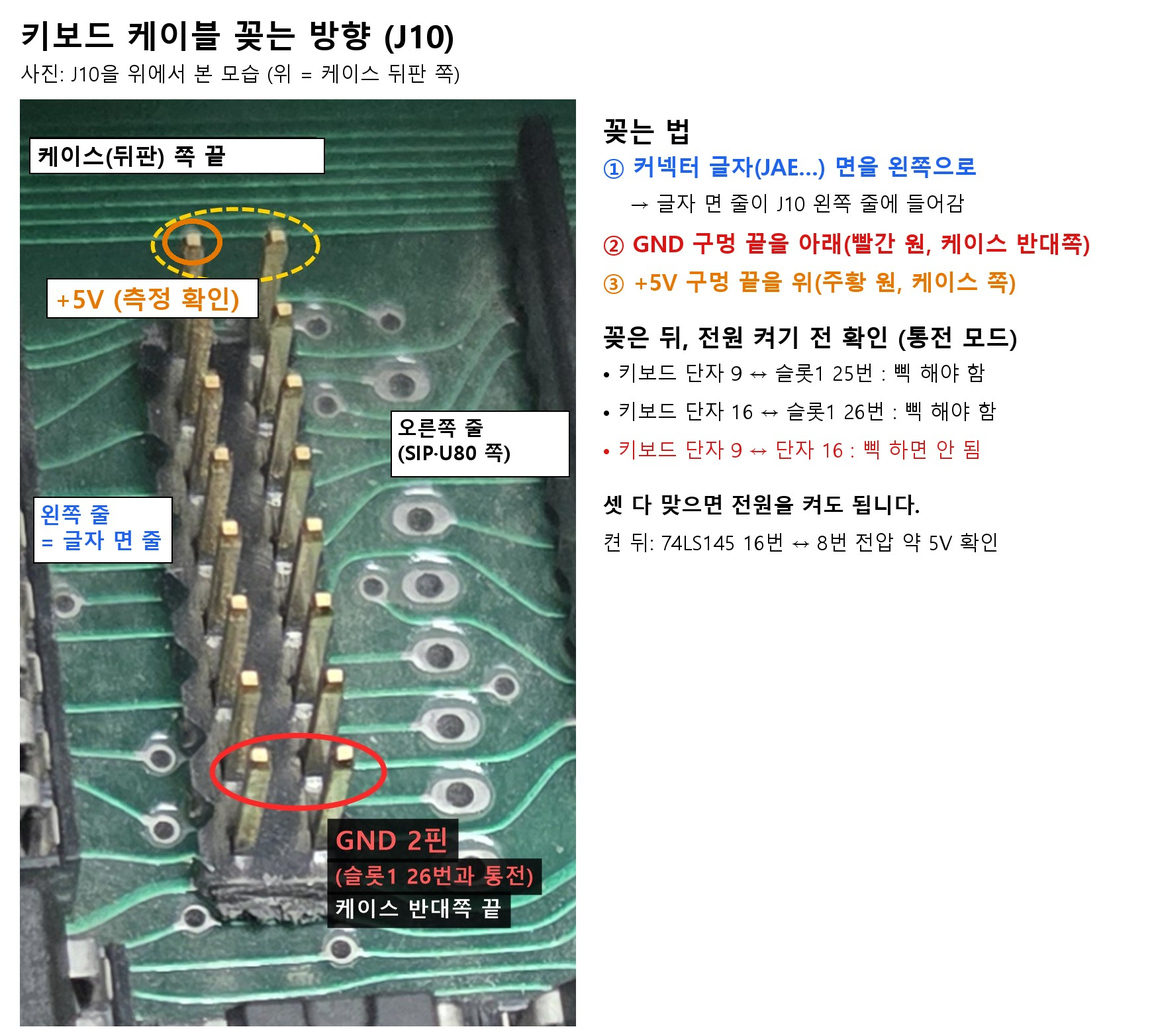
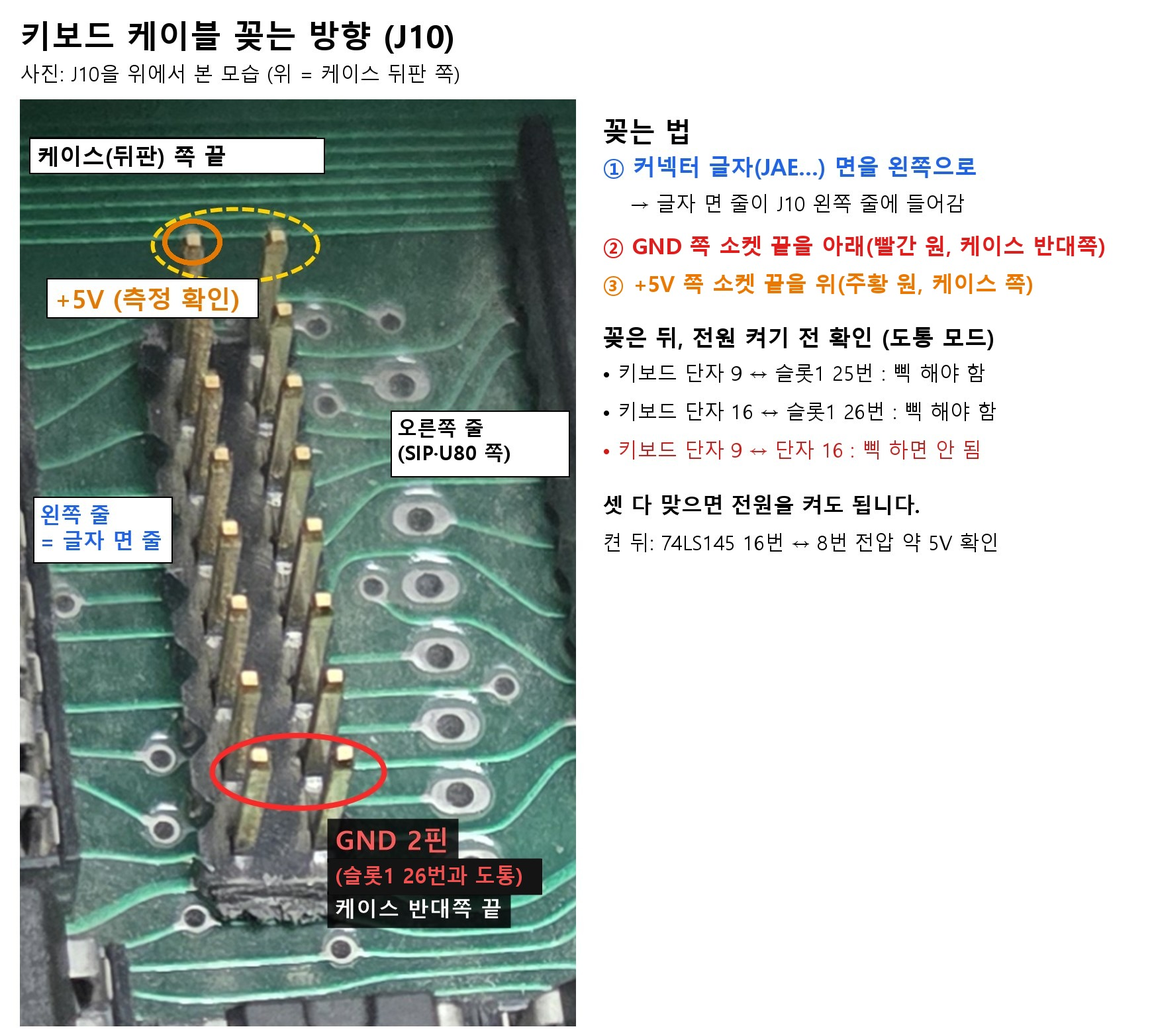
용어 통일: 통전→도통, 침→프로브, 버퍼 켜기→인에이블, 커넥터 '구멍'→J10 헤더/케이블 소켓(용어 표 추가, 그림·스크립트 이름 변경, netlist CABLE_SOCKET), 관련 그림 다시 생성

Changed region(s): [[0.5276, 0.2154, 0.9621, 0.3385], [0.2793, 0.8308, 0.4655, 0.8615]]

diff --git a/tools/annotate_cable_socket.py b/tools/annotate_cable_socket.py
@@ -1,7 +1,7 @@
-"""본체 쪽 키보드 케이블 커넥터(구멍 면, 점퍼선 없음) 사진 20261107_224136에 구멍 번호 매기기. ← 본체 쪽 커넥터 번호 기준 그림
-사용: python tools/annotate_cable_holes_clear.py photos/keyboard/20261107_224136_cable-connector_holes_clear.jpg analysis/kbd_cable_holes_numbered.jpg
+"""본체 쪽 키보드 케이블 커넥터(소켓 접속면, 점퍼선 없음) 사진 20261107_224136에 소켓 번호 매기기. ← 본체 쪽 커넥터 번호 기준 그림
+사용: python tools/annotate_cable_socket.py photos/keyboard/20261107_224136_cable-connector_holes_clear.jpg analysis/kbd_cable_socket_numbered.jpg
 번호 규칙 = kbd_measure_simple.jpg 와 같음: 오른쪽 줄 맨 위 = 1, 오른쪽 줄 아래로 1–8, 이어서 왼쪽 줄 아래→위 9–16.
-사진 기준: 구멍 면, 글자(JAE…) 면과 케이블 묶음이 오른쪽, 묶음이 붙은 끝이 위.
+사진 기준: 소켓 접속면, 글자(JAE…) 면과 케이블 묶음이 오른쪽, 묶음이 붙은 끝이 위.
 +5V = 1번: 같은 각도로 찍은 사진 223843에서 흰 점퍼선(+5V, 사용자 확인)이 꽂힌 자리.
 """
 import sys
@@ -49,7 +49,7 @@ for i, (x, y) in enumerate(left_bottom_up):
     hole(i + 9, x, y, "L")
 cx, cy = P(*right[0])
 d.text((cx + 90, cy - 22), "= +5V", font=F(32), fill=RED)
-# 8·9번 = GND (사용자 확인: 슬롯 GND와 통전) — J10의 GND 2핀(케이스 반대쪽 끝)에 들어가는 줄
+# 8·9번 = GND (사용자 확인: 슬롯 GND와 도통) — J10의 GND 2핀(케이스 반대쪽 끝)에 들어가는 줄
 GRN = (0, 150, 60)
 for (x, y) in (right[7], left_bottom_up[0]):
     gx, gy = P(x, y)
@@ -57,10 +57,10 @@ for (x, y) in (right[7], left_bottom_up[0]):
 gx, gy = P(*right[7])
 d.text((gx + 80, gy - 22), "8·9 = GND", font=F(32), fill=GRN)
 
-d.text((20, 14), "본체 쪽 케이블 커넥터 구멍 번호 (기준 그림)", font=F(36), fill=BLK)
+d.text((20, 14), "본체 쪽 케이블 소켓 번호 (기준 그림)", font=F(36), fill=BLK)
 d.text((20, 66), "오른쪽 줄 맨 위 = 1, 아래로 1–8 → 왼쪽 줄 아래에서 위로 9–16 (키보드 그림과 같은 규칙)", font=FR(24), fill=BLK)
-d.text((20, 102), "구멍 면을 보고, 글자(JAE…) 면·케이블 묶음이 오른쪽, 묶음 붙은 끝이 위로 오게 들었을 때", font=FR(24), fill=BLK)
+d.text((20, 102), "소켓 접속면을 보고, 글자(JAE…) 면·케이블 묶음이 오른쪽, 묶음 붙은 끝이 위로 오게 들었을 때", font=FR(24), fill=BLK)
 y = TOP + crop.height + 14
-d.text((20, y), "+5V = 1번 (흰 점퍼선 자리) · GND = 8·9번 (슬롯 GND와 통전, 사용자 확인)", font=F(26), fill=RED)
-d.text((20, y + 44), "측정 결과는 '키보드 단자 ○ → 구멍 ○번'으로 알려 주세요.", font=FR(24), fill=BLK)
+d.text((20, y), "+5V = 1번 (흰 점퍼선 자리) · GND = 8·9번 (슬롯 GND와 도통, 사용자 확인)", font=F(26), fill=RED)
+d.text((20, y + 44), "측정 결과는 '키보드 단자 ○ → 소켓 ○번'으로 알려 주세요.", font=FR(24), fill=BLK)
 canvas.save(OUT, quality=90)

diff --git a/tools/annotate_j10_keyboard.py b/tools/annotate_j10_keyboard.py
@@ -85,7 +85,7 @@ d.text((20, 78), "열 A = SIP·U80 쪽,  열 B = U81 쪽.  숫자 = 행 번호 (
 ty = TOP + H + 18
 for t, b, c in [
     ("판독 결과", True, BLK),
-    ("• 행1 두 핀 = GND: 슬롯1 핀 26과 통전 (사용자 측정, 확실)", False, BLK),
+    ("• 행1 두 핀 = GND: 슬롯1 핀 26과 도통 (사용자 측정, 확실)", False, BLK),
     ("• 행8 열B = +5V 추정: 뒷면 선이 보드 가장자리 선으로 내려가고,", False, BLK),
     ("   같은 선에 U81 핀16(Vcc)이 붙음 (U81 핀 번호는 칩 글자 방향으로 판단)", False, BLK),
     ("• 미실장 구멍 7개: J10 행과 같은 간격(7행만 없음) → 다른 키보드용 단자 자리 추정", False, BLK),
@@ -95,7 +95,7 @@ for t, b, c in [
     ("", False, BLK),
     ("측정으로 확정할 것", True, BLK),
     ("1. 전원 켜고(검정 GND): 16핀 전압. 행8 열B가 약 5V인지, 다른 전원 핀이 있는지", False, BLK),
-    ("2. 전원 끄고(통전): 각 핀 ↔ U80·U81 입력 핀(2,3,5,6,10,11,13,14), ↔ SIP 각 핀", False, BLK),
+    ("2. 전원 끄고(도통): 각 핀 ↔ U80·U81 입력 핀(2,3,5,6,10,11,13,14), ↔ SIP 각 핀", False, BLK),
 ]:
     d.text((20, ty), t, font=font(17, b), fill=c); ty += 30
 

diff --git a/tools/annotate_u33_pins.py b/tools/annotate_u33_pins.py
@@ -30,10 +30,10 @@ def label(xy, text, sz=16, fg=BLK, bg=WHITE, anchor="mm"):
 d.text((20, 12), "U33 (74LS367, 버퍼 6개) 핀 번호 — 앞면", font=font(30, True), fill=BLK)
 d.text((20, 56), "U30 오른쪽 칩 줄의 세 번째(74LS367 셋 중 오른쪽). 노치 아래쪽 → 1번 핀 = 오른쪽 아래.", font=font(18), fill=BLK)
 
-func = {1: "/G1 (버퍼1–4 켜기, 0V여야 동작)", 2: "A1 입력", 3: "Y1 출력", 4: "A2 입력 ← 클럭 들어올 곳",
+func = {1: "/G1 (버퍼1–4 인에이블, 0V여야 동작)", 2: "A1 입력", 3: "Y1 출력", 4: "A2 입력 ← 클럭 들어올 곳",
         5: "Y2 출력 → U30 핀 37", 6: "A3 입력", 7: "Y3 출력", 8: "GND",
         9: "Y4 출력", 10: "A4 입력", 11: "Y5 출력", 12: "A5 입력", 13: "Y6 출력", 14: "A6 입력",
-        15: "/G2 (버퍼5–6 켜기)", 16: "+5V"}
+        15: "/G2 (버퍼5–6 인에이블)", 16: "+5V"}
 col = {1: ORG, 4: RED, 5: RED, 8: GRN, 16: GRN}
 P, yb, xr, xl = 34.3, 1745, 1327, 1233
 for p in range(1, 17):

diff --git a/tools/annotate_jitter_check.py b/tools/annotate_jitter_check.py
@@ -33,7 +33,7 @@ def ring(x, y, col, r=11):
 # ① +5V: 슬롯1 맨 위 두 핀 (왼쪽 줄 위 = 26 GND, 오른쪽 줄 위 = 25 +5V)
 ring(77, 22, BLK); ring(106, 22, RED)
 label((LM + im.width + 20, TOP + 10), "① +5V 재는 곳 (슬롯1 맨 위)", RED, 26, P(106, 22))
-d.text((LM + im.width + 20, TOP + 55), "검정 침 = 왼쪽 핀 (26, GND)\n빨간 침 = 오른쪽 핀 (25, +5V)\nDC: 4.75V 이상\nAC: 거의 0V (0.1V 넘으면 잡음)", font=F(20), fill=BLK, spacing=6)
+d.text((LM + im.width + 20, TOP + 55), "검정 프로브 = 왼쪽 핀 (26, GND)\n빨간 프로브 = 오른쪽 핀 (25, +5V)\nDC: 4.75V 이상\nAC: 거의 0V (0.1V 넘으면 잡음)", font=F(20), fill=BLK, spacing=6)
 
 # ② 영상 단자 J7 (VIDEO RCA)
 rect(850, 0, 912, 58, BLU)

diff --git a/tools/make_kbd_solder_overview.py b/tools/make_kbd_solder_overview.py
@@ -66,5 +66,5 @@ d.text((tx, ty), lab, font=F(28), fill=RED)
 # 아래 요약
 y = TOP + nh + 18
 d.text((20, y), "단자: 16 GND · 9 +5V · 8/12/7/6 = 행 번호 A/B/C/D (74LS145 15/14/13/12번) · 2–5, 10, 13–15 = 열 8가닥 (10 = RESET 열) · 1, 11 = 케이블 선 없음", font=F(28), fill=BLK)
-d.text((20, y + 46), "케이블 본체 쪽 구멍 번호: analysis/kbd_cable_holes_numbered.jpg · J10 핀별 신호: docs/05-interface-pinouts.md", font=FR(26), fill=BLK)
+d.text((20, y + 46), "케이블 본체 쪽 소켓 번호: analysis/kbd_cable_socket_numbered.jpg · J10 핀별 신호: docs/05-interface-pinouts.md", font=FR(26), fill=BLK)
 canvas.save(OUT, quality=88)

diff --git a/docs/08-repair-log.md b/docs/08-repair-log.md
@@ -14,8 +14,8 @@
 
 | 항목 | 결과 | 방법 |
 | --- | --- | --- |
-| 케이블 14가닥 | **모두 정상** (전날 "2가닥 끊김"은 측정 실수) | 구멍 ↔ 단자 통전, 코일을 구부려도 값 일정 |
-| 케이블 결선 (구멍 → 단자) | 1→9(+5V), 2→10, 3→6(D), 4→12(B), 5→13, 6→14, 7→15, 8·9→16(GND), 10→2, 11→3, 12→4, 13→5, 15→7(C), 16→8(A), 14 = 빈칸 | 원래 짝인 키보드·케이블(사용자 확인)이므로 이 배선이 공장 배선. "D선을 14번으로 옮기기" 추정은 **철회** |
+| 케이블 14가닥 | **모두 정상** (전날 "2가닥 끊김"은 측정 실수) | 소켓 ↔ 단자 도통, 코일을 구부려도 값 일정 |
+| 케이블 결선 (소켓 → 단자) | 1→9(+5V), 2→10, 3→6(D), 4→12(B), 5→13, 6→14, 7→15, 8·9→16(GND), 10→2, 11→3, 12→4, 13→5, 15→7(C), 16→8(A), 14 = 빈칸 | 원래 짝인 키보드·케이블(사용자 확인)이므로 이 배선이 공장 배선. "D선을 14번으로 옮기기" 추정은 **철회** |
 | 스캔 신호 A·B·C·D (74LS145 15·14·13·12번) | 44.7 / 94 / 105 / 46 kHz — 모두 움직임 | 전원 ON, Hz. 본체가 스캔 신호를 보냄 |
 | 키보드 칩 전원 | 74LS145 16번·74LS03 14번·단자 9 = 4.9V | DC V (한 번 0V로 읽은 것은 측정 실수) |
 | 열 선 (단자 2·3·4·5·10·13·14·15) | 키 안 누름 = 모두 4.9V | DC V. 본체 풀업 정상, 합선 없음 |
@@ -64,40 +64,40 @@
     3. 일부 열 선만 읽히는 하드웨어 문제(U80·U81 접촉 등) 가능성도 남음 → Disp 키의 행·열 위치 측정, J10 스캔 신호 측정으로 구분.
 - 메모: 이전 README의 "까만 화면 멈춤"과는 다른 상태(로고까지 정상 출력).
 - U80·U81 꾹 누르기 → **변화 없음** (사용자).
-- 케이블 단선 의심 → 본체 쪽 커넥터 사진 [`photos/keyboard/20261107_223843_cable-connector_holes_5V-jumper.jpg`](../photos/keyboard/20261107_223843_cable-connector_holes_5V-jumper.jpg): **흰 점퍼선을 꽂은 구멍 = +5V** (사용자 확인). 구멍 면을 보고 케이블 묶음 쪽 끝을 위로 들었을 때 **왼쪽 줄 맨 위** 구멍 → 점퍼선 끝 위치로 보아 **+5V = 1번** (오른쪽 = 글자 면·케이블 묶음 쪽, 오른쪽 줄 맨 위 = 1) → 글자 면 쪽 줄 끝 = +5V로, 앞의 "글자 면 쪽 줄" 설명과 맞음. 점퍼선 없이 같은 각도로 다시 찍은 사진 [`photos/keyboard/20261107_224136_cable-connector_holes_clear.jpg`](../photos/keyboard/20261107_224136_cable-connector_holes_clear.jpg)에 번호를 매긴 **[`analysis/kbd_cable_holes_numbered.jpg`](../analysis/kbd_cable_holes_numbered.jpg)를 본체 쪽 커넥터 구멍 번호의 기준 그림으로 사용** (+5V = 1번, **GND = 8·9번** — 슬롯 GND와 통전, 사용자 확인. 맨 아래 줄 2칸이 J10 케이스 반대쪽 끝 GND 2핀에 들어감).
-- **케이블 단선 검사 1차 (2026-11-07, 사용자, 원자료)** — 본체 쪽 커넥터 구멍([기준 그림](../analysis/kbd_cable_holes_numbered.jpg)) ↔ 키보드 단자([번호 그림](../analysis/kbd_measure_simple.jpg)):
+- 케이블 단선 의심 → 본체 쪽 커넥터 사진 [`photos/keyboard/20261107_223843_cable-connector_holes_5V-jumper.jpg`](../photos/keyboard/20261107_223843_cable-connector_holes_5V-jumper.jpg): **흰 점퍼선을 꽂은 소켓 칸 = +5V** (사용자 확인). 소켓 접속면을 보고 케이블 묶음 쪽 끝을 위로 들었을 때 **왼쪽 줄 맨 위** 소켓 칸 → 점퍼선 끝 위치로 보아 **+5V = 1번** (오른쪽 = 글자 면·케이블 묶음 쪽, 오른쪽 줄 맨 위 = 1) → 글자 면 쪽 줄 끝 = +5V로, 앞의 "글자 면 쪽 줄" 설명과 맞음. 점퍼선 없이 같은 각도로 다시 찍은 사진 [`photos/keyboard/20261107_224136_cable-connector_holes_clear.jpg`](../photos/keyboard/20261107_224136_cable-connector_holes_clear.jpg)에 번호를 매긴 **[`analysis/kbd_cable_socket_numbered.jpg`](../analysis/kbd_cable_socket_numbered.jpg)를 본체 쪽 케이블 소켓 번호의 기준 그림으로 사용** (+5V = 1번, **GND = 8·9번** — 슬롯 GND와 도통, 사용자 확인. 맨 아래 줄 2칸이 J10 케이스 반대쪽 끝 GND 2핀에 들어감).
+- **케이블 단선 검사 1차 (2026-11-07, 사용자, 원자료)** — 본체 쪽 케이블 소켓([기준 그림](../analysis/kbd_cable_socket_numbered.jpg)) ↔ 키보드 단자([번호 그림](../analysis/kbd_measure_simple.jpg)):
   1→8, 2→7, 3→6, 4→12, 5→13, 6→14, 7→없음, 8→없음, 9→없음, 10→2, 11→3, 12→4, 13→5, 14→없음, 15→7, 16→8.
-    - 이미 아는 사실과 어긋남: 구멍 1(+5V)은 단자 9(+5V)여야 하는데 8로 나옴 / 구멍 8·9(GND)는 단자 16(GND)과 통해야 하는데 없음 / 단자 7·8이 구멍 두 개씩과 통함(2·15, 1·16).
-    - 판단: 번호를 읽는 방향(키보드 단자 좌우 줄, 또는 구멍 위아래)이 한쪽에서 바뀌었거나 기록 착오 가능성 → 재확인 필요. 원자료 그대로 둠.
-    - **재확인 (사용자)**: 단자 9 ↔ 구멍 1 통전, 단자 16 ↔ 구멍 8·9 통전, 구멍 15 ↔ 단자 7, 구멍 16 ↔ 단자 8 → 1차의 "구멍 1→8, 2→7"은 기록 착오로 판단 (사용자 본인도 실수 인정).
-    - **현재까지 확정 대응** (구멍 → 단자): 1→9(+5V), 8·9→16(GND), 16→8(A), 4→12(B), 15→7(C), 3→6(D), 5→13, 6→14, 10→2, 11→3, 12→4, 13→5.
-    - **짝이 안 나온 것**: 구멍 2(재확인 필요)·7·14 / 키보드 단자 **1·10·11·15**. → 단자 10(RESET 열)·11(추가 선택선)·1·15가 케이블로 본체에 안 가는 것으로 보임 = **RESET과 그 열의 키가 안 먹는 이유와 맞음** (추정). 구멍 2·7·14 뒤에 전선이 붙어 있는지(붙어 있으면 끊김) 확인 필요.
-    - **커넥터 뒷면 사진 (사용자)**: `232814`(글자 면 쪽 줄)·`232804`·`232822`(반대쪽 줄) — 손이 찍혀 2026-11-08 삭제, 같은 내용은 [`20261108_081926`](../photos/keyboard/20261108_081926_board-side-connector_2-bare-pins.jpg). 글자(4K26S) 면 쪽 줄(구멍 1–8) = **8칸 모두 전선 있음**. 반대쪽 줄(구멍 9–16) = **2칸이 전선 없이 핀만** (줄 한쪽 끝 1칸 + 그 끝에서 6번째 1칸) → 구멍 번호로는 **9와 14**로 판단 (16·11은 단자와 통전 확인됐으므로 반대 방향은 불가). 사진 방향 기준 판단, 확인 필요.
-    - 판단: 구멍 **14 = 원래 선 없음**, 구멍 9 = GND(8과 J10에서 같은 GND라 선 없어도 됨). 구멍 **2·7 = 전선은 있는데 키보드 단자와 안 통함 → 끊김 가능성 높음**. 남는 키보드 단자 1·10·11·15 중 2개가 이 두 선일 것으로 추정. 나머지 2개는 케이블에 선 자체가 없음(가닥 수 부족) — 원래 안 쓰는 선인지 미확인.
-    - **규칙 발견**: 측정 12개 중 10개가 **단자 번호 = 구멍 번호 + 8 (16 넘으면 −16)**. 이 규칙으로 예상: **구멍 2 ↔ 단자 10(RESET 열), 구멍 7 ↔ 단자 15** (둘 다 뒤에 선 있음 → 끊김 추정). 예외: 구멍 3 ↔ 단자 6(행 D, 규칙상 11), 구멍 14 빈칸(규칙상 6). → D가 원래 자리(구멍 14)가 아닐 수 있음, 확인 필요. (이 규칙에 따른 옛 결선표 그림은 결론이 틀려 삭제. 맞는 결선은 05 문서)
-    - **키보드 쪽 커넥터 뒷면 사진 (사용자)**: [`233618`](../photos/keyboard/20261107_233618_kbd-side-connector_back-pins.jpg), [`233729`](../photos/keyboard/20261107_233729_kbd-side-connector_back-pins-2.jpg). 옆에서 본 줄에서 **전선 없는 핀 2개**: 맨 위 칸과 위에서 6번째 칸 → 위치로 보아 **단자 1과 단자 11** (측면 사진이라 줄 판정은 추정). → 단자 1·11 = 케이블에 선 없음 (본체 쪽 빈칸 구멍 9·14와 짝), **단자 10·15에는 선이 있음** → 본체 쪽 구멍 2·7에도 선이 있는데 안 통함 = **케이블 안에서 두 가닥 끊김으로 판단 (사용자도 같은 결론)**. 색깔로 양 끝 확인하면 확정.
-    - **2026-11-08 사용자: "케이블에는 문제 없다"** → 구멍 2↔단자 10, 구멍 7↔단자 15도 통하는 것으로 이해 (확인 필요). 그러면 14개 중 13개가 규칙과 맞고 **구멍 3↔단자 6(행 D)만 예외**. 구멍 3과 14는 **같은 줄 옆 칸** → D 선을 옆 핀(3)에 잘못 단 것으로 추정 (**이후 철회** — 원래 짝 키보드의 공장 배선이고 키보드 정상 동작 확인. 안내 그림 `kbd_cable_d_wire_move.jpg`는 혼동을 막기 위해 삭제). 맞다면 행 번호가 틀어져 RESET(행 2)·대부분 키가 안 먹는 증상과 일치. 확인: 전원 켠 상태에서 구멍 14 뒤 맨 핀의 Hz (행 A와 비슷하게 나오면 확정).
-    - **2026-11-08 사용자 사진·설명**: 케이블 16핀 중 **14핀은 전선 연결, 2핀만 비어 있는 상태 그대로였음**(누가 손댄 흔적 아님). 사진 [`전체`](../photos/keyboard/20261108_081101_cable-whole-coiled.jpg), [`양쪽 커넥터`](../photos/keyboard/20261108_081800_cable-both-connectors.jpg), [`본체 쪽 커넥터, 빈 핀 2개`](../photos/keyboard/20261108_081926_board-side-connector_2-bare-pins.jpg). 빈 핀 2개는 앞서 측정한 구멍 9·14와 같은 줄 위치로 보이나, 비스듬한 사진이라 어느 줄(왼/오)인지는 사진만으로 확정 못 함. 케이블이 수작업 배선이라 "처음부터 D가 3번"이었을 수도 있음 → 이 키보드가 원래 이 본체 짝인지 모르므로, 땜질 옮기기 전에 **본체 J10 쪽에서 어느 핀이 D를 내보내는지** 먼저 측정해서 결정.
-    - **2026-11-08 사용자: "원래 키보드가 맞다"** — 키보드 ↔ 본체 연결 사진 [`082634`](../photos/keyboard/20261108_082634_kbd-connected-to-board_original-pair.jpg). 원래 짝인 키보드와 공장 배선 케이블이므로 **D선이 구멍 3번에 있는 것도 원래 배선일 가능성이 높음** → "D선 옮기기" 추정은 보류(거의 철회). 단자=구멍+8 규칙은 내가 측정값에서 뽑은 규칙일 뿐이고, J10 핀 배치가 그 규칙을 꼭 따를 이유는 없음. 남는 원인 후보: (1) 꼬인(코일) 케이블 속 끊김·접촉 불량(구부림에 따라 달라짐, 어제 구멍 2·7 불통 측정과 연결), (2) 키보드 쪽 74LS145/74LS03, (3) 본체 쪽 스캔 회로(U80/U81 주변). 다음: 전원 켜고 키보드 꽂은 상태에서 키보드 안 74LS145의 A·B·C·D 입력 핀 Hz 측정(차례로 반씩 줄어야 정상).
+    - 이미 아는 사실과 어긋남: 소켓 1(+5V)은 단자 9(+5V)여야 하는데 8로 나옴 / 소켓 8·9(GND)는 단자 16(GND)과 통해야 하는데 없음 / 단자 7·8이 소켓 두 개씩과 통함(2·15, 1·16).
+    - 판단: 번호를 읽는 방향(키보드 단자 좌우 줄, 또는 소켓 위아래)이 한쪽에서 바뀌었거나 기록 착오 가능성 → 재확인 필요. 원자료 그대로 둠.
+    - **재확인 (사용자)**: 단자 9 ↔ 소켓 1 도통, 단자 16 ↔ 소켓 8·9 도통, 소켓 15 ↔ 단자 7, 소켓 16 ↔ 단자 8 → 1차의 "소켓 1→8, 2→7"은 기록 착오로 판단 (사용자 본인도 실수 인정).
+    - **현재까지 확정 대응** (소켓 → 단자): 1→9(+5V), 8·9→16(GND), 16→8(A), 4→12(B), 15→7(C), 3→6(D), 5→13, 6→14, 10→2, 11→3, 12→4, 13→5.
+    - **짝이 안 나온 것**: 소켓 2(재확인 필요)·7·14 / 키보드 단자 **1·10·11·15**. → 단자 10(RESET 열)·11(추가 선택선)·1·15가 케이블로 본체에 안 가는 것으로 보임 = **RESET과 그 열의 키가 안 먹는 이유와 맞음** (추정). 소켓 2·7·14 뒤에 전선이 붙어 있는지(붙어 있으면 끊김) 확인 필요.
+    - **커넥터 뒷면 사진 (사용자)**: `232814`(글자 면 쪽 줄)·`232804`·`232822`(반대쪽 줄) — 손이 찍혀 2026-11-08 삭제, 같은 내용은 [`20261108_081926`](../photos/keyboard/20261108_081926_board-side-connector_2-bare-pins.jpg). 글자(4K26S) 면 쪽 줄(소켓 1–8) = **8칸 모두 전선 있음**. 반대쪽 줄(소켓 9–16) = **2칸이 전선 없이 핀만** (줄 한쪽 끝 1칸 + 그 끝에서 6번째 1칸) → 소켓 번호로는 **9와 14**로 판단 (16·11은 단자와 도통 확인됐으므로 반대 방향은 불가). 사진 방향 기준 판단, 확인 필요.
+    - 판단: 소켓 **14 = 원래 선 없음**, 소켓 9 = GND(8과 J10에서 같은 GND라 선 없어도 됨). 소켓 **2·7 = 전선은 있는데 키보드 단자와 안 통함 → 끊김 가능성 높음**. 남는 키보드 단자 1·10·11·15 중 2개가 이 두 선일 것으로 추정. 나머지 2개는 케이블에 선 자체가 없음(가닥 수 부족) — 원래 안 쓰는 선인지 미확인.
+    - **규칙 발견**: 측정 12개 중 10개가 **단자 번호 = 소켓 번호 + 8 (16 넘으면 −16)**. 이 규칙으로 예상: **소켓 2 ↔ 단자 10(RESET 열), 소켓 7 ↔ 단자 15** (둘 다 뒤에 선 있음 → 끊김 추정). 예외: 소켓 3 ↔ 단자 6(행 D, 규칙상 11), 소켓 14 빈칸(규칙상 6). → D가 원래 자리(소켓 14)가 아닐 수 있음, 확인 필요. (이 규칙에 따른 옛 결선표 그림은 결론이 틀려 삭제. 맞는 결선은 05 문서)
+    - **키보드 쪽 커넥터 뒷면 사진 (사용자)**: [`233618`](../photos/keyboard/20261107_233618_kbd-side-connector_back-pins.jpg), [`233729`](../photos/keyboard/20261107_233729_kbd-side-connector_back-pins-2.jpg). 옆에서 본 줄에서 **전선 없는 핀 2개**: 맨 위 칸과 위에서 6번째 칸 → 위치로 보아 **단자 1과 단자 11** (측면 사진이라 줄 판정은 추정). → 단자 1·11 = 케이블에 선 없음 (본체 쪽 빈칸 소켓 9·14와 짝), **단자 10·15에는 선이 있음** → 본체 쪽 소켓 2·7에도 선이 있는데 안 통함 = **케이블 안에서 두 가닥 끊김으로 판단 (사용자도 같은 결론)**. 색깔로 양 끝 확인하면 확정.
+    - **2026-11-08 사용자: "케이블에는 문제 없다"** → 소켓 2↔단자 10, 소켓 7↔단자 15도 통하는 것으로 이해 (확인 필요). 그러면 14개 중 13개가 규칙과 맞고 **소켓 3↔단자 6(행 D)만 예외**. 소켓 3과 14는 **같은 줄 옆 칸** → D 선을 옆 핀(3)에 잘못 단 것으로 추정 (**이후 철회** — 원래 짝 키보드의 공장 배선이고 키보드 정상 동작 확인. 안내 그림 `kbd_cable_d_wire_move.jpg`는 혼동을 막기 위해 삭제). 맞다면 행 번호가 틀어져 RESET(행 2)·대부분 키가 안 먹는 증상과 일치. 확인: 전원 켠 상태에서 소켓 14 뒤 맨 핀의 Hz (행 A와 비슷하게 나오면 확정).
+    - **2026-11-08 사용자 사진·설명**: 케이블 16핀 중 **14핀은 전선 연결, 2핀만 비어 있는 상태 그대로였음**(누가 손댄 흔적 아님). 사진 [`전체`](../photos/keyboard/20261108_081101_cable-whole-coiled.jpg), [`양쪽 커넥터`](../photos/keyboard/20261108_081800_cable-both-connectors.jpg), [`본체 쪽 커넥터, 빈 핀 2개`](../photos/keyboard/20261108_081926_board-side-connector_2-bare-pins.jpg). 빈 핀 2개는 앞서 측정한 소켓 9·14와 같은 줄 위치로 보이나, 비스듬한 사진이라 어느 줄(왼/오)인지는 사진만으로 확정 못 함. 케이블이 수작업 배선이라 "처음부터 D가 3번"이었을 수도 있음 → 이 키보드가 원래 이 본체 짝인지 모르므로, 땜질 옮기기 전에 **본체 J10 쪽에서 어느 핀이 D를 내보내는지** 먼저 측정해서 결정.
+    - **2026-11-08 사용자: "원래 키보드가 맞다"** — 키보드 ↔ 본체 연결 사진 [`082634`](../photos/keyboard/20261108_082634_kbd-connected-to-board_original-pair.jpg). 원래 짝인 키보드와 공장 배선 케이블이므로 **D선이 소켓 3번에 있는 것도 원래 배선일 가능성이 높음** → "D선 옮기기" 추정은 보류(거의 철회). 단자=소켓+8 규칙은 내가 측정값에서 뽑은 규칙일 뿐이고, J10 핀 배치가 그 규칙을 꼭 따를 이유는 없음. 남는 원인 후보: (1) 꼬인(코일) 케이블 속 끊김·접촉 불량(구부림에 따라 달라짐, 어제 소켓 2·7 불통 측정과 연결), (2) 키보드 쪽 74LS145/74LS03, (3) 본체 쪽 스캔 회로(U80/U81 주변). 다음: 전원 켜고 키보드 꽂은 상태에서 키보드 안 74LS145의 A·B·C·D 입력 핀 Hz 측정(차례로 반씩 줄어야 정상).
     - **2026-11-08 사용자: 케이블 여러 번 측정 → 값 일정, 코일 구부림에 따라 끊겼다 이어졌다 하지 않음** → 원인 후보 (1) 케이블 간헐 끊김은 제외. 남은 후보: 키보드 칩(74LS145/74LS03) 또는 본체 스캔 회로. 다음은 74LS145 A·B·C·D(15·14·13·12번 핀) Hz 측정.
-    - **2026-11-08 사용자 재측정: 구멍 2↔단자 10, 구멍 7↔단자 15 모두 통함** → 2026-11-07의 "두 가닥 끊김" 판단은 측정 실수였던 것으로 정정. **케이블 14가닥 모두 정상 (확정).**
-    - **2026-11-08 74LS145 입력 Hz (전원 ON, 키보드 연결, 검정 침 단자 16, 사용자)**: 15번(A) 44.7 kHz · 14번(B) 94 kHz · 13번(C) 105 kHz · 12번(D) 46 kHz. 그림 [`analysis/kbd_measure_simple.jpg`](../analysis/kbd_measure_simple.jpg). → **4가닥 모두 움직임 = 본체가 스캔 신호를 보내고 케이블로 잘 도착함.** 값이 반씩 줄지 않는 것은 단순 2진 카운터가 아니거나(주소선 등에서 가져옴) 테스터 Hz가 불규칙 신호를 잘못 세는 것일 수 있음 — 판단 보류. 다음: 74LS145 16번 +5V(DC), 출력 핀 1–7·9–11 Hz.
-    - **2026-11-08 74LS145 16번(Vcc) = 0V (사용자, 검정 침 단자 16)** → 키보드 칩에 전원이 안 들어감. 출력이 안 나오니 매트릭스 키 전체가 안 먹는 증상과 일치 (Disp는 따로 배선된 키라 동작한다고 보면 설명됨). 16번 핀에 흰 점퍼선이 붙어 있음(사진상 104 콘덴서 쪽으로 감) → 점퍼선 납땜 불량이 1순위 후보. 확인: 단자 9(+5V) 전압, 단자 9↔16번 핀 통전, 74LS03 14번 전압.
+    - **2026-11-08 사용자 재측정: 소켓 2↔단자 10, 소켓 7↔단자 15 모두 통함** → 2026-11-07의 "두 가닥 끊김" 판단은 측정 실수였던 것으로 정정. **케이블 14가닥 모두 정상 (확정).**
+    - **2026-11-08 74LS145 입력 Hz (전원 ON, 키보드 연결, 검정 프로브 단자 16, 사용자)**: 15번(A) 44.7 kHz · 14번(B) 94 kHz · 13번(C) 105 kHz · 12번(D) 46 kHz. 그림 [`analysis/kbd_measure_simple.jpg`](../analysis/kbd_measure_simple.jpg). → **4가닥 모두 움직임 = 본체가 스캔 신호를 보내고 케이블로 잘 도착함.** 값이 반씩 줄지 않는 것은 단순 2진 카운터가 아니거나(주소선 등에서 가져옴) 테스터 Hz가 불규칙 신호를 잘못 세는 것일 수 있음 — 판단 보류. 다음: 74LS145 16번 +5V(DC), 출력 핀 1–7·9–11 Hz.
+    - **2026-11-08 74LS145 16번(Vcc) = 0V (사용자, 검정 프로브 단자 16)** → 키보드 칩에 전원이 안 들어감. 출력이 안 나오니 매트릭스 키 전체가 안 먹는 증상과 일치 (Disp는 따로 배선된 키라 동작한다고 보면 설명됨). 16번 핀에 흰 점퍼선이 붙어 있음(사진상 104 콘덴서 쪽으로 감) → 점퍼선 납땜 불량이 1순위 후보. 확인: 단자 9(+5V) 전압, 단자 9↔16번 핀 도통, 74LS03 14번 전압.
     - **정정 (2026-11-08 재측정, 사용자)**: 74LS145 16번 **4.9V**, 74LS03 14번 **4.9V**, 단자 9 **4.9V** → 앞의 0V는 측정 실수. **키보드 칩 전원 정상.** 다음: 74LS145 출력 1–7·9–11번 Hz.
     - **74LS145 출력 1–7·9–11번 = 모두 약 60Hz (사용자, 키 안 누름)** → 판단 불가. 74LS145 출력은 **오픈 컬렉터**(LOW로 당기기만 함)라 키를 안 누르면 출력선이 어디에도 안 이어져 떠 있음 → 테스터가 전기 배선의 60Hz 잡음을 읽은 것으로 봄. 출력이 정상인지는 **키를 누른 상태**에서 열(Y) 쪽을 재야 알 수 있음. 열 후보 = 단자 2·3·4·5·10·13·14·15 (8개, U80/U81 74LS257 2개 = 8입력과 수 맞음, 추정). 다음: (1) 키 안 누르고 열 후보 단자 DC V (본체 풀업이면 ~5V), (2) RESET 키 누른 채 74LS145 3번·단자 10 Hz.
     - **열 후보 단자 2·3·4·5·10·13·14·15 = 모두 4.9V (키 안 누름, 사용자)** → 본체 풀업 정상, 열 선 중 0V로 붙은(단락) 것 없음. 다음: RESET 키 누른 채 74LS145 3번·단자 10 Hz.
     - **RESET 키 누른 채 Hz: 74LS145 3번 60Hz, 단자 10 60Hz (사용자)** → 판단 불가. 단자 10은 DC 4.9V로 고정된 선인데도 60Hz가 나옴 = 테스터 Hz 모드가 신호 없는 곳에서도 60Hz 잡음을 읽는 것으로 보임 (확인: 순수 DC인 단자 9에서 Hz). 이후 키 눌림 확인은 **DC V로 누름/뗌 비교**(누르면 스캔 펄스 때문에 단자 10 평균 전압이 조금 내려가야 함).
-    - **재측정 (사용자: Hz는 값이 자리 잡을 때까지 시간이 걸림)**: 74LS145 3번 **0Hz**, 단자 10 **0Hz**, 단자 9 **0Hz** (RESET 누름 상태로 이해, 확인 필요). → 앞의 60Hz들은 기다리기 전 값 → **74LS145 출력 1–7·9–11 "60Hz"도 무효**. 키를 눌러도 3번 출력에 펄스가 안 보임 = 74LS145 3번 출력 불량 / RESET 키 접점 불량 / 3번이 선택되지 않음 중 하나 (미확정). 확인: 전원 끄고 RESET 누른 채 74LS145 3번↔단자 10 통전, 전원 켜고 DC V 누름/뗌 비교.
-    - **전원 OFF 통전: 74LS145 3번 ↔ 단자 10 = RESET을 누르든 안 누르든 항상 통함 (사용자)**. 2026-11-07에는 "누른 채" 통전만 확인했고 뗀 상태는 안 쟀음. → 가능성: (a) RESET 키가 붙어 있음(눌린 채 고착·접점 합선) → 매트릭스에 키 하나가 계속 눌린 것으로 보여 **다른 키가 안 먹는 증상과 맞을 수 있음 (추정)**, (b) 케이블 꽂힌 채라 본체 쪽 회로를 거쳐 통한 것처럼 보임. 확인: 케이블 뽑고 Ω 값으로 누름/뗌 비교, 3번 ↔ 다른 열 단자(2·3·4·5·13·14·15)도 비교.
+    - **재측정 (사용자: Hz는 값이 자리 잡을 때까지 시간이 걸림)**: 74LS145 3번 **0Hz**, 단자 10 **0Hz**, 단자 9 **0Hz** (RESET 누름 상태로 이해, 확인 필요). → 앞의 60Hz들은 기다리기 전 값 → **74LS145 출력 1–7·9–11 "60Hz"도 무효**. 키를 눌러도 3번 출력에 펄스가 안 보임 = 74LS145 3번 출력 불량 / RESET 키 접점 불량 / 3번이 선택되지 않음 중 하나 (미확정). 확인: 전원 끄고 RESET 누른 채 74LS145 3번↔단자 10 도통, 전원 켜고 DC V 누름/뗌 비교.
+    - **전원 OFF 도통: 74LS145 3번 ↔ 단자 10 = RESET을 누르든 안 누르든 항상 통함 (사용자)**. 2026-11-07에는 "누른 채" 도통만 확인했고 뗀 상태는 안 쟀음. → 가능성: (a) RESET 키가 붙어 있음(눌린 채 고착·접점 합선) → 매트릭스에 키 하나가 계속 눌린 것으로 보여 **다른 키가 안 먹는 증상과 맞을 수 있음 (추정)**, (b) 케이블 꽂힌 채라 본체 쪽 회로를 거쳐 통한 것처럼 보임. 확인: 케이블 뽑고 Ω 값으로 누름/뗌 비교, 3번 ↔ 다른 열 단자(2·3·4·5·13·14·15)도 비교.
     - **Ω 측정: 74LS145 3번 ↔ 단자 10 = RESET 뗌 0Ω, 누름 0Ω (사용자)** → 키를 떼도 붙어 있음. RESET 접점 고착 또는 3번↔단자 10이 기판 길로 직결. 비교: 3번 ↔ 단자 2.
     - **정정 (사용자)**: 위 "0Ω"은 잘못 읽은 것. 실제 표시는 **"0.L MΩ"(= OL, 안 통함)**, RESET 누름/뗌 둘 다. 사용자는 "16번 단자"와 74LS145 3번이라고 말함 → 단자 10인지 16인지 확인 필요. 앞의 "삐 소리 항상 통함"과도 어긋남 → RESET 고착 추정은 **보류**. 케이블 뽑고 Ω로 다시: 3번↔단자 10 누름/뗌.
     - **재측정 (케이블 뽑음, Ω, 사용자)**: 74LS145 3번 ↔ 단자 10 = **RESET 누름 0Ω, 뗌 O.L** → **RESET 키 스위치·배선 정상 (확정).** 키보드 쪽 남은 의심 = 74LS145가 3번 출력을 실제로 LOW로 당기는지. 앞서 전원 ON·RESET 누름에서 3번·단자 10 모두 0Hz → 3번 줄이 한 번도 안 당겨진다는 뜻일 수 있음(74LS145 불량 또는 본체가 0010을 안 보냄). 다음: 전원 ON·케이블 연결·RESET 누른 채 단자 10 DC V, 다른 키(일반 글자 키) 누른 채 열 단자 8곳 DC V.
-    - **전원 ON·케이블 연결, 단자 10 DC V: RESET 뗌 4.9V → 누름 3.8V (사용자)** → 74LS145가 3번 줄을 실제로 반복해서 LOW로 당기고, RESET 신호가 단자 10(→ 구멍 2 → J10)으로 본체까지 나감. **키보드 쪽 RESET 경로 정상 (확정).** 앞의 0Hz는 테스터 Hz가 이 짧은 펄스를 못 센 것으로 봄. → 원인은 본체 쪽(열 읽기 U80/U81 74LS257, 또는 그 뒤 처리)이나 Ctrl 등 다른 키 쪽. 다음: Ctrl 키 누른 채 열 단자 8곳 DC V로 Ctrl 위치·동작 확인.
+    - **전원 ON·케이블 연결, 단자 10 DC V: RESET 뗌 4.9V → 누름 3.8V (사용자)** → 74LS145가 3번 줄을 실제로 반복해서 LOW로 당기고, RESET 신호가 단자 10(→ 소켓 2 → J10)으로 본체까지 나감. **키보드 쪽 RESET 경로 정상 (확정).** 앞의 0Hz는 테스터 Hz가 이 짧은 펄스를 못 센 것으로 봄. → 원인은 본체 쪽(열 읽기 U80/U81 74LS257, 또는 그 뒤 처리)이나 Ctrl 등 다른 키 쪽. 다음: Ctrl 키 누른 채 열 단자 8곳 DC V로 Ctrl 위치·동작 확인.
     - **Ctrl 안 누름: 단자 2·3·4·5·14·15 = 4.9V (사용자, 측정 중단)**. **Ctrl+RESET을 누를 때마다 "삑" 소리 남 (사용자, 2026-11-08)** → 2026-11-07에는 Ctrl+RESET 반응 없었음. Apple II는 리셋 때 삑 소리를 냄 → **키보드 RESET이 본체까지 먹히는 것으로 보임 (추정, 화면 변화 확인 필요).** 어제와 달라진 점: 케이블을 여러 번 뽑았다 꽂음(접촉 개선 가능성).
     - **RESET만 누르면 삑 없음, Ctrl+RESET이면 매번 삑 (사용자)** → 정품 Apple II(Ctrl 필요 설정)와 같은 동작. **RESET 키와 Ctrl 키 모두 본체까지 정상 전달 (확정).** 키보드 RESET 문제는 해결된 것으로 봄. 다음: 삑 뒤 화면 상태(`]` 프롬프트·커서 여부), 글자 키 입력 시험.
     - **Ctrl+RESET → 삑만 나고 화면 변화 없음 (사용자)** → CPU는 리셋을 받아 삑까지 실행함(ROM 리셋 루틴 동작). 화면이 그대로인 것은 리셋 뒤 다시 같은 시작 화면(로고/디스크 대기)으로 들어가는 ROM 설계일 수 있음 (추정, 정품 II+는 디스크 없이 리셋하면 `]`로 감). Disp로 기능키 표시줄이 CP/M↔BASIC 바뀌는 것 → **시작 화면이 "모드 선택" 화면이고 기능키/Return으로 고르는 방식일 가능성 (추정)**. 확인: 화면 사진, 삑 뒤 드라이브 모터 멈춤 여부, Disp로 BASIC 표시 후 Return·기능키·Esc·Space 시험.
     - 키보드에 **"Vdx" 키** 있음 (사용자: Videx 80컬럼으로 보임). Videx = Apple II용 80컬럼 카드(Videoterm) 회사 이름. 보드에서 Videx 카드의 핵심 칩(6845 CRTC)은 아직 못 찾음 → 80컬럼은 U64(한글 6502)+U65 "VD5"·U70 "CHR P4"·U68 6116 쪽에서 만드는 것으로 추정. Vdx 키 = 40컬럼(Apple 화면) ↔ 80컬럼(Videx 호환 화면) 전환 추정 — 시험 필요.
-- 측정 요령: 커넥터 구멍에 **점퍼선(듀폰선)을 꽂고 그 반대쪽 끝에 테스터 침**을 대면 구멍 측정이 쉬움 (사용자 방법).
+- 측정 요령: 케이블 소켓에 **점퍼선(듀폰선)을 꽂고 그 반대쪽 끝에 테스터 프로브**를 대면 소켓 측정이 쉬움 (사용자 방법).
 
 ## 현재 판단 (2026-11-07 갱신)
 
@@ -108,7 +108,7 @@
 
 **2026-11-07 키보드 단자 J10**: 키보드 케이블이 J10(2×8 라이트앵글 핀헤더)에 꽂혀 있던 것을 확인 → **J10 = 키보드 단자 확정**. 사진: [`photos/keyboard/20261107_131132_J10-header_connector-unplugged.jpg`](../photos/keyboard/20261107_131132_J10-header_connector-unplugged.jpg)(J10과 뽑은 커넥터), [`photos/keyboard/20261107_133005_connector-wiring-side.jpg`](../photos/keyboard/20261107_133005_connector-wiring-side.jpg)(커넥터 뒷면 배선).
 - 케이블 쪽 커넥터: 2×8, **방향 돌기(키) 없음** → 거꾸로 꽂힐 수 있음. 전선을 한 가닥씩 핀에 연결하고 각각 수축튜브, 흰 케이블타이로 묶음(수작업 배선으로 보임). 16칸 중 일부는 전선이 없어 **핀만 뒤로 튀어나와 있음**(원래 구조, 이상 아님).
-- 메인보드 J10 **케이스 반대쪽 끝 2핀 = GND**: 전원 끈 상태에서 슬롯1 핀 26(GND)과 테스터 통전 확인 (사용자 측정). 위치 = **케이스(뒤판) 반대쪽 끝**, 위에서 본 사진에서 아래쪽 끝 한 쌍(핀헤더 받침이 넓은 쪽). 케이스 쪽 끝 2핀은 미확인. 위치 표시: [`analysis/kbd_plug_direction.jpg`](../analysis/kbd_plug_direction.jpg), [`analysis/j10_gnd_pins_overview.jpg`](../analysis/j10_gnd_pins_overview.jpg). 정품 Apple II 키보드 배치(1번 +5V, 8번 GND)와 다름 → 이 보드 고유 배치로 보임.
+- 메인보드 J10 **케이스 반대쪽 끝 2핀 = GND**: 전원 끈 상태에서 슬롯1 핀 26(GND)과 테스터 도통 확인 (사용자 측정). 위치 = **케이스(뒤판) 반대쪽 끝**, 위에서 본 사진에서 아래쪽 끝 한 쌍(핀헤더 받침이 넓은 쪽). 케이스 쪽 끝 2핀은 미확인. 위치 표시: [`analysis/kbd_plug_direction.jpg`](../analysis/kbd_plug_direction.jpg), [`analysis/j10_gnd_pins_overview.jpg`](../analysis/j10_gnd_pins_overview.jpg). 정품 Apple II 키보드 배치(1번 +5V, 8번 GND)와 다름 → 이 보드 고유 배치로 보임.
 - **뒷면 사진 판독** (뒷면 212435를 앞면 좌표로 옮겨 봄): [`analysis/j10_keyboard_back.jpg`](../analysis/j10_keyboard_back.jpg), 도구 [`tools/annotate_j10_keyboard.py`](../tools/annotate_j10_keyboard.py). 행 1 = GND 끝, 행 8 = 케이스 쪽 끝. 열 A = SIP·U80 쪽, 열 B = U81 쪽.
     - 행8 열B: 뒷면 선이 보드 가장자리 선으로 내려가고 같은 선에 U81 핀 16(Vcc)이 붙음 → **+5V 추정** (U81 핀 번호는 칩 글자 방향으로 판단, 측정 필요).
     - J10 옆 미실장 구멍 7개(J10 행과 같은 간격, 7행 자리만 없음) → 다른 키보드용 단자 자리 추정.
@@ -119,25 +119,25 @@
     - 키보드 기판 부품은 **SN74LS145N**(BCD→10 디코더, 오픈 컬렉터), **74LS03**(오픈 컬렉터 NAND ×4), 저항 1개, 세라믹 콘덴서 104(0.1µF, 전원 바이패스), 기판쪽 단자 **JAE 16P**(2×8 박스 헤더)뿐. 키 인코더 칩(Apple II식 AY-5-3600 같은 것) 없음.
     - → **본체가 키 매트릭스를 직접 스캔하는 방식**으로 판단(확실성 높음): 본체가 4비트 행 번호를 보내면 74LS145가 행 하나를 Low로 끌고, 눌린 키의 열 선이 Low가 되어 본체로 돌아감. 본체 J10 옆 SIP 9핀(열 선 풀업 추정)과 74LS257 U80·U81(열 선을 데이터 버스로 읽기 추정)이 이 구조와 맞음.
     - J10 16핀 예상 구성(미확인): GND·+5V, 행 번호 4비트(74LS145 A–D), 열 선 여러 개, 나머지(74LS03 관련 또는 특수 키).
-    - 케이블의 **초록·검정 선 2가닥은 JAE 단자를 거치지 않고 키 스위치 한 곳에 직접 납땜** → 매트릭스와 따로 가는 키. RESET 키일 가능성이 높으나 미확인 (그 키를 누른 채 초록–검정 통전으로 확인).
-    - 사진 해상도로는 16핀 각각을 확실히 따라갈 수 없음 → 키보드 쪽에서 통전 측정으로 확정 (74LS145 핀 15·14·13·12 = A·B·C·D, 16 = Vcc, 8 = GND).
+    - 케이블의 **초록·검정 선 2가닥은 JAE 단자를 거치지 않고 키 스위치 한 곳에 직접 납땜** → 매트릭스와 따로 가는 키. RESET 키일 가능성이 높으나 미확인 (그 키를 누른 채 초록–검정 도통으로 확인).
+    - 사진 해상도로는 16핀 각각을 확실히 따라갈 수 없음 → 키보드 쪽에서 도통 측정으로 확정 (74LS145 핀 15·14·13·12 = A·B·C·D, 16 = Vcc, 8 = GND).
 - **키보드 양면 사진 판독 (2026-11-07, 145210–145419)**: (처음 만든 K1–K8 번호 안내 그림은 헷갈려서 삭제, 아래 "측정용 번호 (최종)" 그림만 사용).
     - **단면 기판**: 배선은 모두 납땜면. 부품면에는 칩 2개, 저항 1개, JAE 16P 단자, 은색 점퍼선 여러 개뿐.
     - 칩 방향: 부품면에서 두 칩 모두 노치가 단자 쪽(사진 아래)을 향하고, 글자가 아래→위로 읽힘 → 부품면 1번 핀 = 오른쪽 아래. 납땜면은 위아래가 뒤집혀 1번 핀 = 오른쪽 위 (확실성 높음). 104 콘덴서는 74LS145 16번(Vcc)과 74LS03 7번(GND) 사이.
     - 74LS145 입력 A–D(15–12번)는 단자 쪽에서 오는 선, 출력(1–7, 9–11번)은 아래쪽 키 매트릭스로 내려감.
     - 단자 칸 이름: K1–K8(K1 = 74LS03 쪽 끝, 부품면 ▼ 표시 쪽 추정) × 안(기판 안쪽)·밖(가장자리).
     - **측정용 번호 (최종)** [`analysis/kbd_measure_simple.jpg`](../analysis/kbd_measure_simple.jpg) ([`tools/annotate_kbd_measure.py`](../tools/annotate_kbd_measure.py)): 단자·74LS03·74LS145 모두 칩과 같은 규칙. 납땜면에서 오른쪽 줄 맨 위 = 1, 오른쪽 줄 위→아래, 이어서 왼쪽 줄 아래→위 (단자는 1–8 오른쪽, 9–16 왼쪽). 단자 번호는 측정용이며 JAE 공식 번호와 다를 수 있음.
-    - 측정 (2026-11-07, 사용자): **단자 16(왼쪽 줄 맨 위) = GND** — 74LS145 8번, 검정 선과 통전. 초록 선은 어느 곳과도 통전 없음.
-    - 측정 (2026-11-07, 사용자, 74LS145 ↔ 단자 통전): **16번 Vcc = 단자 9**, **15번 A = 단자 8**, **13번 C = 단자 7**, **12번 D = 단자 6**, **14번 B = 단자 어디와도 통전 없음**.
+    - 측정 (2026-11-07, 사용자): **단자 16(왼쪽 줄 맨 위) = GND** — 74LS145 8번, 검정 선과 도통. 초록 선은 어느 곳과도 도통 없음.
+    - 측정 (2026-11-07, 사용자, 74LS145 ↔ 단자 도통): **16번 Vcc = 단자 9**, **15번 A = 단자 8**, **13번 C = 단자 7**, **12번 D = 단자 6**, **14번 B = 단자 어디와도 도통 없음**.
         - 행 번호 선 A·C·D가 단자 8·7·6으로 나란히 모임. B만 단자로 안 나옴 → 키보드 안에서 GND·+5V·74LS03 쪽에 묶였거나 선이 끊긴 것 (미확인). B가 GND에 묶였다면 74LS145 출력 중 Y0·Y1·Y4·Y5·Y8·Y9 6개만 쓰임.
-        - 추가 측정: **74LS145 14번(B) ↔ 74LS03 1번(1A, NAND 입력)** 통전. 둘 다 입력이므로 이 선을 구동하는 것은 따로 있음 (부품면 저항 1개를 통한 풀업, 특정 키, 또는 74LS03 다른 게이트 출력 후보). 미확인. 74LS145의 다른 핀(8 GND, 16 Vcc 포함)과는 통전 없음 → GND·+5V에 직접 묶인 것은 아님.
+        - 추가 측정: **74LS145 14번(B) ↔ 74LS03 1번(1A, NAND 입력)** 도통. 둘 다 입력이므로 이 선을 구동하는 것은 따로 있음 (부품면 저항 1개를 통한 풀업, 특정 키, 또는 74LS03 다른 게이트 출력 후보). 미확인. 74LS145의 다른 핀(8 GND, 16 Vcc 포함)과는 도통 없음 → GND·+5V에 직접 묶인 것은 아님.
     - 측정 (2026-11-07, 사용자, 74LS03 ↔ 단자): 1→12, 2→6, 3→없음, 4→7, 5→6, 6→없음, 7→16, 8→없음, 9→12, 10→11, 11→없음, 12→11, 13→12, 14→9.
-        - 74LS03 1번이 단자 12와 통하므로 74LS145 14번(B)도 단자 12여야 함 (앞의 "B 통전 없음"과 어긋남 → 재확인 필요).
-        - **재측정 (2026-11-07, 사용자): 74LS145 14번(B) ↔ 단자 12 통전 확인.** 앞의 "B 통전 없음"은 측정 실수(접촉·핀 위치)로 판단. → 행 번호 4비트 A·B·C·D = 단자 8·12·7·6 확정. 위의 "B가 GND에 묶였다면" 가정은 폐기.
-        - **초록 선 측정 (2026-11-07, 사용자)**: RESET 키를 누른 채 초록 ↔ 검정 **통전 없음** → 초록·검정 선은 RESET 키 스위치가 아님(또는 다른 키). RESET 키 다리 ↔ 단자 16(GND)은 **누르든 안 누르든 통전** → RESET 스위치 한쪽 다리 = GND. 반대쪽 다리가 어느 단자로 가는지 미확인. RESET을 누른 채 단자 16 ↔ 단자 1–15 → **누를 때 통전되는 단자 없음** (사용자). 스위치 자체 불량, 측정 위치(다른 키 패드) 착오, 또는 단자 아닌 곳(초록 선·저항·칩 입력)으로 가는 경우 중 미확인.
-        - 납땜면 RESET 위치: 앞면 오른쪽 아래 모서리 키 → 납땜면은 좌우 반전이라 **왼쪽 아래 모서리** (위 = Del, 오른쪽 = '/'). 그림 [`analysis/kbd_solder_overview.jpg`](../analysis/kbd_solder_overview.jpg) (빨간 원; RESET 확대 그림은 2026-11-08 이 그림으로 합침). 빨간 칸 안 패드 약 6개 중 어느 둘이 RESET 스위치인지는 사진으로 확정 못 함 → 누른 채 통전으로 확정.
-        - **측정 (2026-11-07, 사용자)**: 빨간 칸 **왼쪽 줄 가운데 패드** = RESET 스위치 다리 (그림의 **빨간 원** = RESET 확정 패드, 사용자 확인). RESET을 누른 채 그 패드 ↔ **단자 10** 통전. 단자 16(GND) ↔ 단자 10은 눌러도 통전 없음(앞 측정) → RESET은 GND 직결 키가 아니라 **키 매트릭스 안의 키**로 판단: 단자 10 = 열 선 하나, 왼쪽 가운데 패드 = 행 쪽(74LS145/74LS03 출력 후보). 앞의 "RESET 다리 ↔ 단자 16 상시 통전"은 다른 패드를 잰 것으로 보임 (재확인 대상).
-        - **측정 (2026-11-07, 사용자)**: RESET 행 쪽 패드 ↔ **74LS145 3번(Y2)** 통전, 74LS03 출력(3·6·8·11)과는 통전 없음. → **RESET = 행 2 (D C B A = 0 0 1 0, 단자 12(B)만 High) × 열 단자 10.** 매트릭스 키 첫 확정.
+        - 74LS03 1번이 단자 12와 통하므로 74LS145 14번(B)도 단자 12여야 함 (앞의 "B 도통 없음"과 어긋남 → 재확인 필요).
+        - **재측정 (2026-11-07, 사용자): 74LS145 14번(B) ↔ 단자 12 도통 확인.** 앞의 "B 도통 없음"은 측정 실수(접촉·핀 위치)로 판단. → 행 번호 4비트 A·B·C·D = 단자 8·12·7·6 확정. 위의 "B가 GND에 묶였다면" 가정은 폐기.
+        - **초록 선 측정 (2026-11-07, 사용자)**: RESET 키를 누른 채 초록 ↔ 검정 **도통 없음** → 초록·검정 선은 RESET 키 스위치가 아님(또는 다른 키). RESET 키 다리 ↔ 단자 16(GND)은 **누르든 안 누르든 도통** → RESET 스위치 한쪽 다리 = GND. 반대쪽 다리가 어느 단자로 가는지 미확인. RESET을 누른 채 단자 16 ↔ 단자 1–15 → **누를 때 도통되는 단자 없음** (사용자). 스위치 자체 불량, 측정 위치(다른 키 패드) 착오, 또는 단자 아닌 곳(초록 선·저항·칩 입력)으로 가는 경우 중 미확인.
+        - 납땜면 RESET 위치: 앞면 오른쪽 아래 모서리 키 → 납땜면은 좌우 반전이라 **왼쪽 아래 모서리** (위 = Del, 오른쪽 = '/'). 그림 [`analysis/kbd_solder_overview.jpg`](../analysis/kbd_solder_overview.jpg) (빨간 원; RESET 확대 그림은 2026-11-08 이 그림으로 합침). 빨간 칸 안 패드 약 6개 중 어느 둘이 RESET 스위치인지는 사진으로 확정 못 함 → 누른 채 도통으로 확정.
+        - **측정 (2026-11-07, 사용자)**: 빨간 칸 **왼쪽 줄 가운데 패드** = RESET 스위치 다리 (그림의 **빨간 원** = RESET 확정 패드, 사용자 확인). RESET을 누른 채 그 패드 ↔ **단자 10** 도통. 단자 16(GND) ↔ 단자 10은 눌러도 도통 없음(앞 측정) → RESET은 GND 직결 키가 아니라 **키 매트릭스 안의 키**로 판단: 단자 10 = 열 선 하나, 왼쪽 가운데 패드 = 행 쪽(74LS145/74LS03 출력 후보). 앞의 "RESET 다리 ↔ 단자 16 상시 도통"은 다른 패드를 잰 것으로 보임 (재확인 대상).
+        - **측정 (2026-11-07, 사용자)**: RESET 행 쪽 패드 ↔ **74LS145 3번(Y2)** 도통, 74LS03 출력(3·6·8·11)과는 도통 없음. → **RESET = 행 2 (D C B A = 0 0 1 0, 단자 12(B)만 High) × 열 단자 10.** 매트릭스 키 첫 확정.
         - 부품면 저항 위치: [`analysis/kbd_resistor_location.jpg`](../analysis/kbd_resistor_location.jpg) (JAE 16P 단자 왼쪽, 세로로 선 저항). 도구 [`tools/annotate_kbd_resistor.py`](../tools/annotate_kbd_resistor.py).
         - **키보드 단자 중간 정리**: 16 GND, 9 +5V, 8 A, 12 B(확인), 7 C, 6 D, 11 = 추가 선택선(이름 미정, 74LS03 3·4번 게이트 입력). 나머지 1·2·3·4·5·10·13·14·15 (9칸) = 키 매트릭스 열 선 후보 (8칸이면 본체 74LS257 2개 = 8비트와 맞음).
         - 74LS03 게이트(오픈 컬렉터 NAND, 출력은 모두 단자로 안 나가고 키 매트릭스로 감 = 74LS145에 더해 행을 늘리는 용도로 판단):
@@ -146,9 +146,9 @@
             - 3번 게이트: B·단자11 → 8번 출력, 4번 게이트: 단자11·B → 11번 출력 (입력이 같음, 용도 미확인)
             - → 74LS145 10행 + 74LS03 추가 행으로 키 줄 수를 늘리는 구조로 추정 (확실성 중간).
     - 초록·검정 선: 단자 위쪽(납땜면 기준) 패드 두 개에 직접 납땜. 검정 선은 키보드 케이스 안쪽에 접착된 작은 중계 패드를 거침(케이블 고정용으로 보임). 어느 키·어떤 신호인지는 미확인.
-    - 단자 16칸 ↔ 칩 핀 연결은 사진(반사, 촘촘한 패드, 부품면 점퍼)으로 확정 못 함. 색 기반 자동 추적도 시도했으나 선이 끊겨 신뢰 불가 → 통전 측정 필요.
-- **J10 +5V 확인 (2026-11-07, 사용자)**: 케이스 쪽 끝 2핀 중 **왼쪽(SIP·U80 반대쪽 줄, 앞의 "열 B")** = +5V (슬롯1 25번과 통전) → 뒷면 판독 추정(행8 열B = +5V)과 일치. 케이블 커넥터는 글자(JAE…) 면 쪽 줄 양 끝이 GND/+5V → **꽂는 방향: 글자 면 줄을 J10 왼쪽 줄에, GND 끝을 케이스 반대쪽으로.** 그림 [`analysis/kbd_plug_direction.jpg`](../analysis/kbd_plug_direction.jpg).
-- 다시 꽂을 때 방향: 케이블 커넥터 양 끝의 2칸끼리 통전 시험 → 서로 통하는 쪽(키보드 안 GND 묶음)을 J10 GND 쪽에 맞춤. 나머지 핀 배치(+5V·RESET·데이터·STROBE)는 미확인.
+    - 단자 16칸 ↔ 칩 핀 연결은 사진(반사, 촘촘한 패드, 부품면 점퍼)으로 확정 못 함. 색 기반 자동 추적도 시도했으나 선이 끊겨 신뢰 불가 → 도통 측정 필요.
+- **J10 +5V 확인 (2026-11-07, 사용자)**: 케이스 쪽 끝 2핀 중 **왼쪽(SIP·U80 반대쪽 줄, 앞의 "열 B")** = +5V (슬롯1 25번과 도통) → 뒷면 판독 추정(행8 열B = +5V)과 일치. 케이블 커넥터는 글자(JAE…) 면 쪽 줄 양 끝이 GND/+5V → **꽂는 방향: 글자 면 줄을 J10 왼쪽 줄에, GND 끝을 케이스 반대쪽으로.** 그림 [`analysis/kbd_plug_direction.jpg`](../analysis/kbd_plug_direction.jpg).
+- 다시 꽂을 때 방향: 케이블 커넥터 양 끝의 2칸끼리 도통 시험 → 서로 통하는 쪽(키보드 안 GND 묶음)을 J10 GND 쪽에 맞춤. 나머지 핀 배치(+5V·RESET·데이터·STROBE)는 미확인.
 
 **2026-11-07 간헐 증상**: 껐다 켜면 **가끔 까만 화면으로 멈춤**, 다른 때는 정상 부팅. 후보: (1) 껐다 바로 켜서 리셋 콘덴서가 덜 방전 → 전원 켤 때 리셋 펄스 부족 (2) 아직 남은 소켓 접촉 불량 (3) +5V 여유 부족(4.8V, 하한 근처). 확인: 까만 화면일 때 RESET/Ctrl+RESET 반응, 10초 이상 끈 뒤 켜기, 정상·불량 때 +5V 비교, 동작 중 칩 가볍게 두드리기.
 
@@ -181,7 +181,7 @@ X1 → U72 (발진) ─┬→ U64 클럭: 1.9V (정상)
 ## 다음에 할 일 (2026-11-07~)
 
 ### 저항 ① ↔ U33 핀 5 도통 (2026-11-07, 사용자 측정)
-- U33 = 74LS367(버퍼 6개). 핀 5 = Y2 출력, 입력은 핀 4(A2), 켜기는 핀 1(/G1, 0V여야 동작).
+- U33 = 74LS367(버퍼 6개). 핀 5 = Y2 출력, 입력은 핀 4(A2), 인에이블은 핀 1(/G1, 0V여야 동작).
 - → **CPU 클럭(U30 핀 37)은 U33 버퍼 출력에서 옴**. "선 끊김" 판단 철회. 슬롯 Φ0와 직접 도통이 안 된 것은 버퍼를 거치기 때문으로 봄.
 - 핀 37의 3.385V·3.585MHz는 U33 핀 5 출력값. 원인 후보: (1) U33 핀 4 입력부터 3.58MHz (2) U33 고장.
 - 그림: [`analysis/u33_pins.jpg`](../analysis/u33_pins.jpg)

diff --git a/docs/04-open-questions.md b/docs/04-open-questions.md
@@ -17,17 +17,17 @@
 - [ ] **내장 FDD 세부**: 어느 쪽이 드라이브 1인지, 핀 1 방향, 각 핀 전압(GND·+5V·+12V·−12V 위치), 동작 슬롯 번호(보통 6), U17·U18 PROM 내용
 - [x] **J10(2×8 라이트앵글) 용도**: 키보드 단자로 확정 (키보드 케이블이 꽂혀 있었음, 2026-11-07) → [08](08-repair-log.md). J6는 RGB 출력으로 확인
 - [x] **키보드 동작 (2026-11-08)**: 정상 동작 확인 (키 입력, Ctrl+RESET "삑"). 케이블 14가닥 결선 전부 확인, 스캔 신호·전원·열 선·RESET 경로 정상. 일부 키는 스위치 접점 불량(청소 필요). 결론 표: [08 "키보드 진단 결론"](08-repair-log.md), 결선: README "키보드"
-- [ ] **J10 키보드 핀 배치 (본체 쪽)**: GND(케이스 반대쪽 끝 2핀)·+5V(케이스 쪽 끝 왼쪽) 확인. 케이블 결선을 통해 각 J10 핀이 키보드 어느 단자(A·B·C·D 행 번호, 열 8가닥)로 가는지는 알 수 있음. 남은 것: J10 열 핀 ↔ U80·U81 입력 핀·SIP 통전, A–D를 내보내는 본체 칩 → [그림](../analysis/j10_keyboard_back.jpg)
+- [ ] **J10 키보드 핀 배치 (본체 쪽)**: GND(케이스 반대쪽 끝 2핀)·+5V(케이스 쪽 끝 왼쪽) 확인. 케이블 결선을 통해 각 J10 핀이 키보드 어느 단자(A·B·C·D 행 번호, 열 8가닥)로 가는지는 알 수 있음. 남은 것: J10 열 핀 ↔ U80·U81 입력 핀·SIP 도통, A–D를 내보내는 본체 칩 → [그림](../analysis/j10_keyboard_back.jpg)
 - [ ] **Ctrl+RESET 뒤 화면 유지**: "삑"은 나지만 HART 로고 화면 그대로. 디스크 대기/모드 선택 화면으로 추정 → 기능키·Return·Disp·Vdx 시험, 부팅 디스크로 시험
 - [ ] **Vdx 키**: Videx 호환 80컬럼 화면 전환 추정. 보드에서 6845(Videx 카드의 화면 칩)는 못 찾음 → 80컬럼은 U64·U65·U70·U68 쪽 추정
-- [ ] **(완료된 항목 포함, 기록용) 키보드 측정 목록 (2026-11-07)** — 그림 [`analysis/kbd_measure_simple.jpg`](../analysis/kbd_measure_simple.jpg) 번호 기준, 케이블 본체에서 뺀 채 통전 모드. 지금까지 결과는 [08 수리 기록](08-repair-log.md) "키보드 양면 사진 판독" 항목.
-    1. ~~74LS145 14번(B) ↔ 단자 12 재확인~~ → 통전 확인 (2026-11-07). B = 단자 12 확정
+- [ ] **(완료된 항목 포함, 기록용) 키보드 측정 목록 (2026-11-07)** — 그림 [`analysis/kbd_measure_simple.jpg`](../analysis/kbd_measure_simple.jpg) 번호 기준, 케이블 본체에서 뺀 채 도통 모드. 지금까지 결과는 [08 수리 기록](08-repair-log.md) "키보드 양면 사진 판독" 항목.
+    1. ~~74LS145 14번(B) ↔ 단자 12 재확인~~ → 도통 확인 (2026-11-07). B = 단자 12 확정
     2. 부품면 저항 1개 ([위치 그림](../analysis/kbd_resistor_location.jpg)): 두 다리가 각각 어디와 통하는지 (단자 1–16, 74LS03 1·10·12번)
-    3. (일부 완료 2026-11-08: 열 선 = 단자 2·3·4·5·10·13·14·15, 모두 4.9V 풀업. 단자 1은 케이블에 선 없음 추정) 남은 단자 1·2·3·4·5·10·13·14·15 (열 선 후보): 키를 누른 채 단자 ↔ 74LS145 출력핀(1–7, 9–11)·74LS03 출력핀(3·6·8·11) 통전
-    4. ~~초록 선: Reset 키를 누른 채 초록 ↔ 검정~~ → 통전 없음 (2026-11-07). RESET 키 한쪽 다리 = 단자 16(GND) 상시 통전. 남은 것: RESET 키를 누른 채 단자 16 ↔ 단자 1–15 (누를 때만 삑 하는 단자 = RESET 선) → **해당 단자 없음** (2026-11-07). → RESET 패드(납땜면 [그림](../analysis/kbd_solder_overview.jpg) 빨간 칸 왼쪽 가운데)는 누를 때 **단자 10**과 통전 = 매트릭스 키. → 그 패드 = **74LS145 3번(Y2)** → **RESET = 행 2 × 열 단자 10 확정** (2026-11-07). 같은 방법(키 누른 채 패드 ↔ 단자, 반대 패드 ↔ 칩 출력)으로 다른 키도 찾을 수 있음. 다음: 납땜면 RESET 스위치 두 패드 사이를 누른 채 직접 통전(스위치 자체 동작 확인) → 동작하면 GND 아닌 쪽 패드 ↔ 초록 선·저항 다리·74LS145/74LS03 모든 핀. 초록·검정 선 용도는 미확인
+    3. (일부 완료 2026-11-08: 열 선 = 단자 2·3·4·5·10·13·14·15, 모두 4.9V 풀업. 단자 1은 케이블에 선 없음 추정) 남은 단자 1·2·3·4·5·10·13·14·15 (열 선 후보): 키를 누른 채 단자 ↔ 74LS145 출력핀(1–7, 9–11)·74LS03 출력핀(3·6·8·11) 도통
+    4. ~~초록 선: Reset 키를 누른 채 초록 ↔ 검정~~ → 도통 없음 (2026-11-07). RESET 키 한쪽 다리 = 단자 16(GND) 상시 도통. 남은 것: RESET 키를 누른 채 단자 16 ↔ 단자 1–15 (누를 때만 삑 하는 단자 = RESET 선) → **해당 단자 없음** (2026-11-07). → RESET 패드(납땜면 [그림](../analysis/kbd_solder_overview.jpg) 빨간 칸 왼쪽 가운데)는 누를 때 **단자 10**과 도통 = 매트릭스 키. → 그 패드 = **74LS145 3번(Y2)** → **RESET = 행 2 × 열 단자 10 확정** (2026-11-07). 같은 방법(키 누른 채 패드 ↔ 단자, 반대 패드 ↔ 칩 출력)으로 다른 키도 찾을 수 있음. 다음: 납땜면 RESET 스위치 두 패드 사이를 누른 채 직접 도통(스위치 자체 동작 확인) → 동작하면 GND 아닌 쪽 패드 ↔ 초록 선·저항 다리·74LS145/74LS03 모든 핀. 초록·검정 선 용도는 미확인
     6. **(선택, 미측정)** Disp·Ctrl 키의 행 × 열 — 원래 목적(Ctrl+RESET이 안 먹는 원인 가르기)은 2026-11-08 Ctrl+RESET 정상 동작으로 해소. 남은 의미는 기록용: Ctrl이 매트릭스 키인지 따로 가는 선인지(초록·검정 직결 선 후보), Ctrl+RESET 조합을 하드웨어가 판정하는지 ROM이 판정하는지. 방법: 전원 ON·케이블 연결, Ctrl 누른 채 열 단자 2·3·4·5·10·13·14·15 DC V → 내려가는 단자가 Ctrl 열 (2026-11-08 측정은 중간에 멈춤, 안 누른 값만 4.9V 기록)
-    5. **(완료 2026-11-08: 14가닥 전부 확인, 정상)** 케이블 양 끝 대응: 키보드 단자 번호 ↔ 본체 쪽 커넥터 구멍 (본체 J10 GND 끝 기준). 꽂는 방향은 결정됨 ([`analysis/kbd_plug_direction.jpg`](../analysis/kbd_plug_direction.jpg)). 본체 쪽 커넥터 구멍 번호 기준: [`analysis/kbd_cable_holes_numbered.jpg`](../analysis/kbd_cable_holes_numbered.jpg) (1번 +5V, 8·9번 GND). 결과 표: [05 "키보드 단자 J10"](05-interface-pinouts.md)
-        - **측정 (2026-11-07, 사용자)**: 본체 쪽 커넥터에서 **글자(JAE…) 찍힌 면 쪽 줄**의 양 끝 구멍 — 한쪽 끝 = GND(키보드 단자 16), 반대쪽 끝 = +5V(키보드 단자 9). (안내 그림 2번 사진 기준 위 = GND, 아래 = +5V.) → GND·+5V가 같은 줄 양 끝. **J10 +5V 확인 (2026-11-07, 사용자)**: 케이스 쪽 끝 **왼쪽 핀(SIP·U80 반대쪽 줄)** = +5V. → 꽂는 방향 결정: 커넥터 글자 면 줄 → J10 왼쪽 줄, GND 끝 → 케이스 반대쪽. 그림 [`analysis/kbd_plug_direction.jpg`](../analysis/kbd_plug_direction.jpg). 꽂은 뒤 전원 켜기 전 통전 확인(단자 9↔슬롯1 25, 단자 16↔슬롯1 26, 9↔16 안 통함). J10 GND는 케이스 반대쪽 끝 2핀이므로, 예상대로 J10 +5V가 케이스 쪽 끝이면 글자 면 줄을 그 +5V 핀 줄에 맞추고 GND 끝을 케이스 반대쪽으로 꽂으면 됨.
+    5. **(완료 2026-11-08: 14가닥 전부 확인, 정상)** 케이블 양 끝 대응: 키보드 단자 번호 ↔ 본체 쪽 케이블 소켓 (본체 J10 GND 끝 기준). 꽂는 방향은 결정됨 ([`analysis/kbd_plug_direction.jpg`](../analysis/kbd_plug_direction.jpg)). 본체 쪽 케이블 소켓 번호 기준: [`analysis/kbd_cable_socket_numbered.jpg`](../analysis/kbd_cable_socket_numbered.jpg) (1번 +5V, 8·9번 GND). 결과 표: [05 "키보드 단자 J10"](05-interface-pinouts.md)
+        - **측정 (2026-11-07, 사용자)**: 본체 쪽 커넥터에서 **글자(JAE…) 찍힌 면 쪽 줄**의 양 끝 소켓 칸 — 한쪽 끝 = GND(키보드 단자 16), 반대쪽 끝 = +5V(키보드 단자 9). (안내 그림 2번 사진 기준 위 = GND, 아래 = +5V.) → GND·+5V가 같은 줄 양 끝. **J10 +5V 확인 (2026-11-07, 사용자)**: 케이스 쪽 끝 **왼쪽 핀(SIP·U80 반대쪽 줄)** = +5V. → 꽂는 방향 결정: 커넥터 글자 면 줄 → J10 왼쪽 줄, GND 끝 → 케이스 반대쪽. 그림 [`analysis/kbd_plug_direction.jpg`](../analysis/kbd_plug_direction.jpg). 꽂은 뒤 전원 켜기 전 도통 확인(단자 9↔슬롯1 25, 단자 16↔슬롯1 26, 9↔16 안 통함). J10 GND는 케이스 반대쪽 끝 2핀이므로, 예상대로 J10 +5V가 케이스 쪽 끝이면 글자 면 줄을 그 +5V 핀 줄에 맞추고 GND 끝을 케이스 반대쪽으로 꽂으면 됨.
 - [ ] **키보드 방식**: 키보드 안에 74LS145·74LS03만 있음 → 본체가 매트릭스를 직접 스캔 (2026-11-07 분해, 2026-11-08 스캔 신호 측정으로 확인). 열 선 8가닥(추정). 행 번호 4비트를 내보내는 본체 칩, 74LS03 용도, 초록·검정 직결 선이 어느 키인지(Disp 추정, RESET 아님) 미확인
 - [ ] **모델명 "ZPC-40"**: 키보드 명판에 "PERSONAL COMPUTER ZPC-40". 본체 모델명인지 확인 (케이스 라벨·ROM 문자열)
 - [ ] **U80·U81(74LS257) 용도**: 비디오 MUX로 분류했으나 J10 바로 옆이라 키보드 데이터 입력 후보. J10 옆 SIP 9핀(저항 어레이 추정)과 미실장 구멍 7개 용도도 미확인

diff --git a/docs/09-verified-baseline.md b/docs/09-verified-baseline.md
@@ -15,7 +15,7 @@
 
 ## 2. 정상 기준값 (전원 켠 상태)
 
-측정 조건: **검정 침은 GND** (U30 핀 1, U72 핀 7, 슬롯 핀 26 중 하나, 키보드 쪽은 키보드 단자 16). Hz는 **숫자가 자리 잡을 때까지 몇 초 기다린 값**.
+측정 조건: **검정 프로브는 GND** (U30 핀 1, U72 핀 7, 슬롯 핀 26 중 하나, 키보드 쪽은 키보드 단자 16). Hz는 **숫자가 자리 잡을 때까지 몇 초 기다린 값**.
 
 ### 전원·리셋
 
@@ -33,7 +33,7 @@
 | 슬롯1 핀 36 (7M) | 약 7MHz, 안정 | 11-07 |
 | U33 핀 4 · 핀 5 (CPU 클럭 버퍼 입력·출력) | 약 1MHz | 11-07 |
 | U30 핀 37 (CPU 클럭 Φ0 입력) | 약 1MHz | 11-07 |
-| U33 핀 1 (/G1, 버퍼 켜기) | DC 173mV (Low = 켜짐) | 11-07 |
+| U33 핀 1 (/G1, 인에이블) | DC 173mV (Low = 켜짐) | 11-07 |
 
 ### CPU 동작
 
@@ -65,8 +65,8 @@
 | U64 데이터 버스 | U65 "VD5" D0, U67 74LS245 A2와 연결 | 도통 |
 | 슬롯 방향 | 앞면 슬롯 위쪽 기준 각 슬롯 왼쪽 줄 26(위)→50(아래), 오른쪽 줄 25→1. 슬롯1 = 왼쪽 끝 | 측정 |
 | 칩 1번 핀 | 세로 칩 = 오른쪽 아래, 가로 칩 = 왼쪽 아래 (앞면 슬롯 위쪽 기준) | 노치·도통 |
-| 키보드 단자 J10 | 핀별 신호 표: [05 "키보드 단자 J10"](05-interface-pinouts.md). GND = 케이스 반대쪽 끝 2핀, +5V = 케이스 쪽 끝 왼쪽 핀 | 슬롯 25·26과 통전 |
-| 키보드 케이블 | 14가닥 모두 정상, 결선은 05 문서 표. 공장 배선(원래 짝 키보드) | 통전 |
+| 키보드 단자 J10 | 핀별 신호 표: [05 "키보드 단자 J10"](05-interface-pinouts.md). GND = 케이스 반대쪽 끝 2핀, +5V = 케이스 쪽 끝 왼쪽 핀 | 슬롯 25·26과 도통 |
+| 키보드 케이블 | 14가닥 모두 정상, 결선은 05 문서 표. 공장 배선(원래 짝 키보드) | 도통 |
 | 키보드 방식 | 본체가 행 번호 4비트(A–D)를 보내고 키보드 74LS145가 행을 고름, 열 8가닥으로 돌아옴 (본체가 매트릭스 직접 스캔) | 분해·측정 |
 | RESET 키 | 매트릭스 키: 74LS145 3번(행 2) × 열 단자 10. 누름 0Ω / 뗌 O.L | 케이블 뽑고 Ω |
 | 전원 선 색 (PSU) | **빨강 = +12V**, 주황 = +5V, 초록 = −12V, 파랑 = −5V, 검정 = GND (일반 관례와 다름) | 실물 확인 |
@@ -75,13 +75,13 @@
 
 | 실수 | 결과 | 올바른 방법 |
 | --- | --- | --- |
-| Hz를 바로 읽음 / 검정 침이 GND가 아님 | 3.585MHz, 70kHz, 60Hz 같은 엉뚱한 값 → "Φ0 끊김" 오판 | 검정 침 GND, 몇 초 기다린 뒤 읽기 |
+| Hz를 바로 읽음 / 검정 프로브가 GND가 아님 | 3.585MHz, 70kHz, 60Hz 같은 엉뚱한 값 → "Φ0 끊김" 오판 | 검정 프로브 GND, 몇 초 기다린 뒤 읽기 |
 | 짧은 펄스를 Hz로 잼 | 키보드 스캔 펄스가 0Hz로 나옴 | **DC V로 평균 비교** (누름/뗌) |
 | 떠 있는 핀(오픈 컬렉터 출력, 키 안 누름)을 잼 | 60Hz 잡음 | 키를 누른 상태에서 열 쪽을 잼 |
 | "O.L"을 0Ω으로 읽음 | 스위치가 붙었다고 오판 | O.L = 안 통함 |
-| 침이 덜 닿음 | 74LS145 Vcc 0V로 오판 | 이상한 값은 한 번 더 재기 |
-| 케이블 꽂은 채 통전 | 본체 회로를 거쳐 통하는 것처럼 보임 | 통전은 케이블 뽑고 |
-| 구멍·단자 번호 방향 착각 | 케이블 "2가닥 끊김" 오판 | 기준 그림([구멍](../analysis/kbd_cable_holes_numbered.jpg), [키보드](../analysis/kbd_measure_simple.jpg)) 번호만 사용 |
+| 프로브가 덜 닿음 | 74LS145 Vcc 0V로 오판 | 이상한 값은 한 번 더 재기 |
+| 케이블 꽂은 채 도통 | 본체 회로를 거쳐 통하는 것처럼 보임 | 도통은 케이블 뽑고 |
+| 소켓·단자 번호 방향 착각 | 케이블 "2가닥 끊김" 오판 | 기준 그림([소켓](../analysis/kbd_cable_socket_numbered.jpg), [키보드](../analysis/kbd_measure_simple.jpg)) 번호만 사용 |
 
 ## 5. 다시 고장 났을 때 점검 순서
 

diff --git a/docs/03-bom.md b/docs/03-bom.md
@@ -109,7 +109,7 @@
 | J8 | 2핀 커넥터 | - | I/O (게임·카세트·스피커) | 추정 | 스피커 추정 (옆에 트랜지스터 Q2와 저항 3개) |
 | Q2 | 트랜지스터 TO-92 | - | I/O (게임·카세트·스피커) | 추정 | J8 옆. 스피커 구동 추정 |
 | J9 | 16핀 DIP 소켓 | - | I/O (게임·카세트·스피커) | 확인 | 게임 I/O 포트 (Apple II J14 상당) |
-| J10 | 핀 헤더 2×8 (ㄱ자) | - | 키보드 단자 | 확인 | 16핀 라이트앵글. 옆에 미실장 패드 7개. 키보드 케이블이 꽂혀 있어 키보드 단자로 확정 (2026-11-07). 케이스 반대쪽 끝 2핀 GND (슬롯1 핀 26과 통전). 전체 핀 배치는 [05 "키보드 단자 J10"](05-interface-pinouts.md) (2026-11-08) |
+| J10 | 핀 헤더 2×8 (ㄱ자) | - | 키보드 단자 | 확인 | 16핀 라이트앵글. 옆에 미실장 패드 7개. 키보드 케이블이 꽂혀 있어 키보드 단자로 확정 (2026-11-07). 케이스 반대쪽 끝 2핀 GND (슬롯1 핀 26과 도통). 전체 핀 배치는 [05 "키보드 단자 J10"](05-interface-pinouts.md) (2026-11-08) |
 | X1 | 수정 발진자 + 트리머 콘덴서 | - | 클럭 / 타이밍 | 확인 | 소형 금속 캔 수정 + 세라믹 트리머 + 저항 2개(U64 아래 가로 배치) + U72 74LS04 = Apple II식 수정 발진 회로. 주파수 표기 미확인, 14.31818MHz 추정 |
 
 ## 부품 집계 (IC)

diff --git a/photos/README.md b/photos/README.md
@@ -173,7 +173,7 @@ photos/
 | --- | --- |
 | 20261108_081101_cable-whole-coiled.jpg | 키보드 코일 케이블 전체 (양 끝 커넥터) |
 | 20261108_081800_cable-both-connectors.jpg | 케이블 양쪽 커넥터 (전선 14가닥, 수축튜브·케이블타이) |
-| 20261108_081926_board-side-connector_2-bare-pins.jpg | 본체 쪽 커넥터: 전선 없는 핀 2개 (구멍 9·14) |
+| 20261108_081926_board-side-connector_2-bare-pins.jpg | 본체 쪽 커넥터: 전선 없는 핀 2개 (소켓 9·14) |
 | 20261108_082634_kbd-connected-to-board_original-pair.jpg | 키보드 ↔ 본체 J10 연결 상태. 원래 짝 키보드 (사용자 확인) |
 
 ## 추가로 필요한 사진
